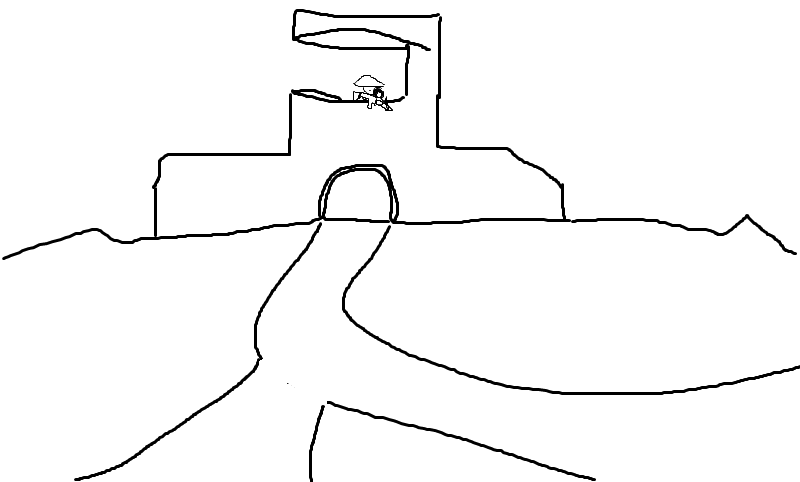
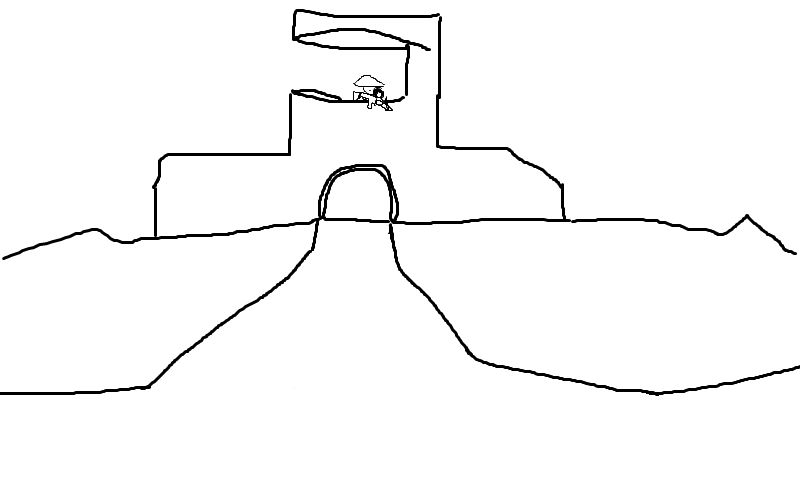
Finished Tower Layout
It demonstrates a different layout, but it I'm not convinced it's a good
one.

diff --git a/InFoxholes/Layouts/TowerPather.cs b/InFoxholes/Layouts/TowerPather.cs
@@ -1,4 +1,5 @@
 using Microsoft.Xna.Framework;
+using System;
 
 
 namespace InFoxholes.Layouts
@@ -6,19 +7,14 @@ namespace InFoxholes.Layouts
     public class TowerPather : Pather
     {
         /* Magic numbers */
-        /*static int startY = 150;
-        static int hillBottomX = 270;
-        static int hillTopX = 210;
-        static int ladderTopX = 122;
-        static int hillBottomY = 145 + startY;
-        static int hillTopY = 15 + startY;
-        static int ladderTopY = 15 + startY;
-        static float slope = (hillTopY - hillBottomY)/(hillTopX - hillBottomX);*/
-
-        static int halfwayX = 320;
-        Vector2 trenchentranceposition = new Vector2(320, 165);
-        int trenchentrancewidth = 75;
+        static int halfwayX = 335;
+        Vector2 trenchentranceposition = new Vector2(280, 165);
+        int trenchentrancewidth = 115;
         int trenchentranceheight = 60;
+        Vector2 columnPosition = new Vector2(265, 115);
+        int columnWidth = 70;
+        int columnHeight = 300;
+        int endOfRoadY = 410;
 
         public override void Initialize()
         {
@@ -29,34 +25,47 @@ namespace InFoxholes.Layouts
         }
         public override Vector2 Move(Vector2 unitPosition, bool isTowardsTrench, float speed)
         {
-            /*Vector2 result = new Vector2();
-            float correctedSpeed;
-            if (isTowardsTrench) correctedSpeed = -1 * speed;
-            else correctedSpeed = speed;
-            result.X = unitPosition.X + correctedSpeed;
-            if (unitPosition.X > hillBottomX)
+            Vector2 result = new Vector2();
+            if (intersectsWith(unitPosition, 1, 1, columnPosition, columnWidth, columnHeight))
             {
-                result.Y = unitPosition.Y;
-            }
-            else if (unitPosition.X > hillTopX)
-            {
-                result.Y = hillTopY + slope * (result.X - hillTopX);
-            }
-            else if (unitPosition.X > ladderTopX)
-            {
-                result.Y = unitPosition.Y;
+                result.X = unitPosition.X;
+                if (isTowardsTrench) result.Y = unitPosition.Y - speed;
+                else result.Y = unitPosition.Y + speed;
             }
             else
             {
-                result = unitPosition;
+                result.Y = unitPosition.Y;
+                if (unitPosition.Y >= endOfRoadY)
+                {
+                    result.X = unitPosition.X;
+                    if (isTowardsTrench)
+                    {
+                        result.Y = unitPosition.Y - speed;
+                    }
+                }
+                else if (isTowardsTrench)
+                {
+                    if (isForward(unitPosition, isTowardsTrench, speed)) 
+                    {
+                        result.X = unitPosition.X + speed;
+                    }
+                    else 
+                    {
+                        result.X = unitPosition.X - speed;
+                    }
+                }
+                else
+                {
+                    if (isForward(unitPosition, isTowardsTrench, speed))
+                    {
+                        result.X = unitPosition.X - speed;
+                    }
+                    else
+                    {
+                        result.X = unitPosition.X + speed;
+                    }
+                }
             }
-            return result;*/
-            Vector2 result = new Vector2();
-            float correctedSpeed;
-            if (isForward(unitPosition, isTowardsTrench, speed)) correctedSpeed = speed;
-            else correctedSpeed = -1 * speed;
-            result.X = unitPosition.X + correctedSpeed;
-            result.Y = unitPosition.Y;
             return result;
         }
         public override bool isForward(Vector2 unitPosition, bool isTowardsTrench, float speed)

diff --git a/InFoxholes/Layouts/TowerLayout.cs b/InFoxholes/Layouts/TowerLayout.cs
@@ -15,26 +15,23 @@ namespace InFoxholes.Layouts
 
         /* Magic Numbers */
         List<Vector2> enemySpawns = new List<Vector2>() { 
-            //new Vector2(900, 425), 
-            //new Vector2(155, 550) };
-            new Vector2(35, 340), 
-            new Vector2(475, 340) };
+            new Vector2(800, 380),
+            new Vector2(-50, 380) };
         List<Vector2> scavengerSpawns = new List<Vector2>() { 
             new Vector2(170, 187), 
-            new Vector2(225, 182), 
+            new Vector2(505, 173), //225, 182
             new Vector2(415, 175), 
-            new Vector2(470, 173),
-            new Vector2(275, 185) };
+            new Vector2(470, 173) };
         List<Vector2> HUDPositions = new List<Vector2>() { 
             new Vector2(10, 10), 
             new Vector2(448, 10), 
             new Vector2(10, 50), 
             new Vector2(10, 100) };
         Vector2 offscreenposition = new Vector2(-150, -150);
-        Vector2 countdownposition = new Vector2(475f, 50f); //475, 25
+        Vector2 countdownposition = new Vector2(475f, 50f);
         Vector2 weapongunpoint = new Vector2(390, 112);
         Vector2 weaponposition = new Vector2(-150, -150);
-        Vector2 scavengerspawnposition = new Vector2(340, 180);
+        Vector2 scavengerspawnposition = new Vector2(315, 180);
         float angleadjust = .25f;
         float distanceadjust = -15f;
         float burstadjustX = -5;

diff --git a/InFoxholes/Layouts/Pather.cs b/InFoxholes/Layouts/Pather.cs
@@ -37,7 +37,6 @@ namespace InFoxholes.Layouts
                 rightMid1.X <= obj2Position.X + obj2Width &&
                 rightMid1.Y <= obj2Position.Y + obj2Height)
             {
-                //System.Diagnostics.Debug.WriteLine("Case RightMid");
                 return true;
             }
             if (leftMid1.X >= obj2Position.X &&
@@ -45,7 +44,6 @@ namespace InFoxholes.Layouts
                 leftMid1.X <= obj2Position.X + obj2Width &&
                 leftMid1.Y <= obj2Position.Y + obj2Height)
             {
-                //System.Diagnostics.Debug.WriteLine("Case LeftMid");
                 return true;
             }
             return false;

diff --git a/InFoxholes/Waves/WaveManager.cs b/InFoxholes/Waves/WaveManager.cs
@@ -46,7 +46,7 @@ namespace InFoxholes.Waves
             waves = new List<Wave>();
             currentWave = 0;
             State = 0;
-            //waves.Add(new Wave1());
+            waves.Add(new Wave1());
             waves.Add(new Wave2());
             for (int i = 0; i < waves.Count; i++)
             {
